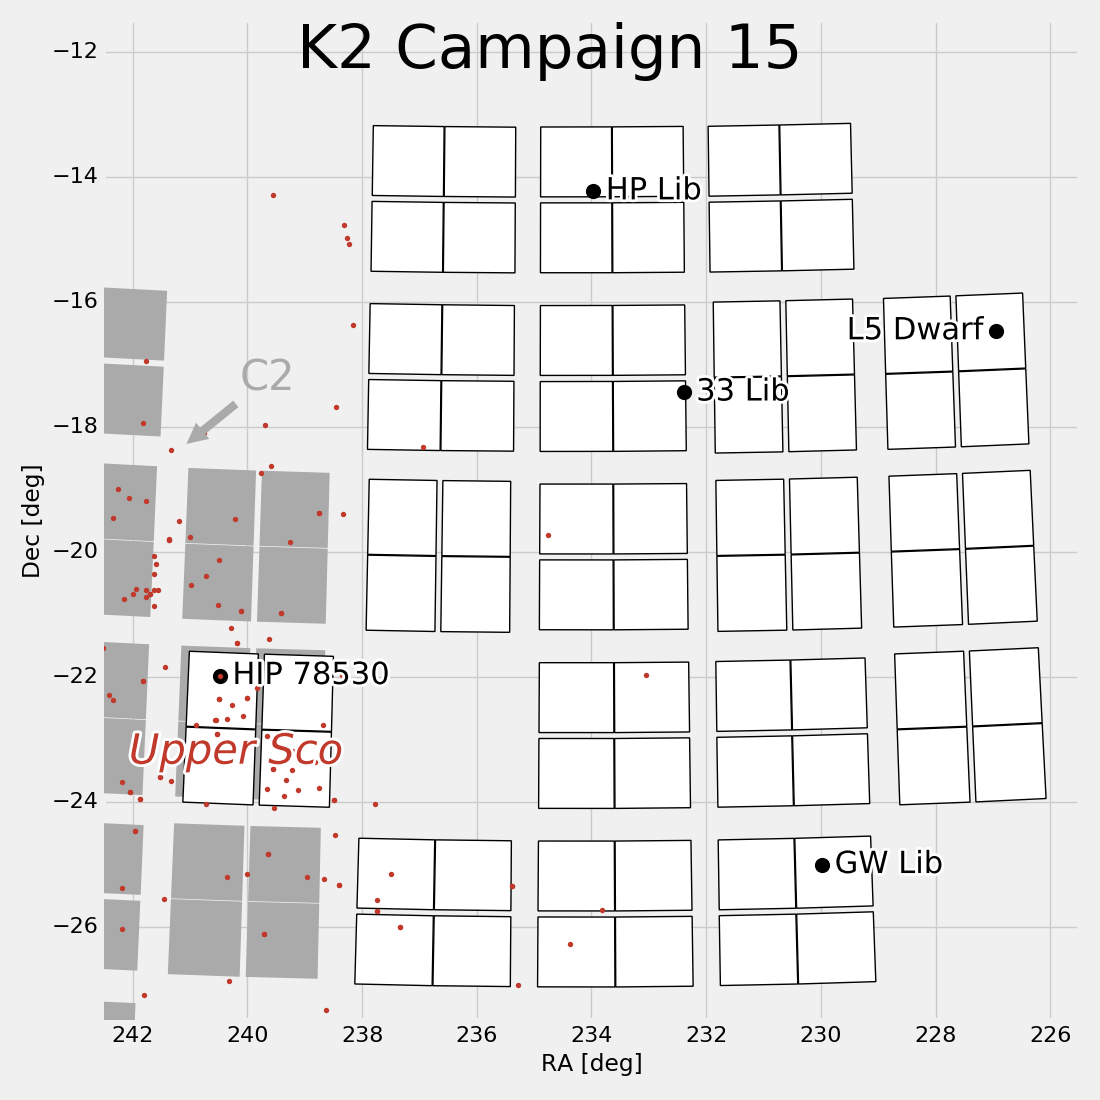
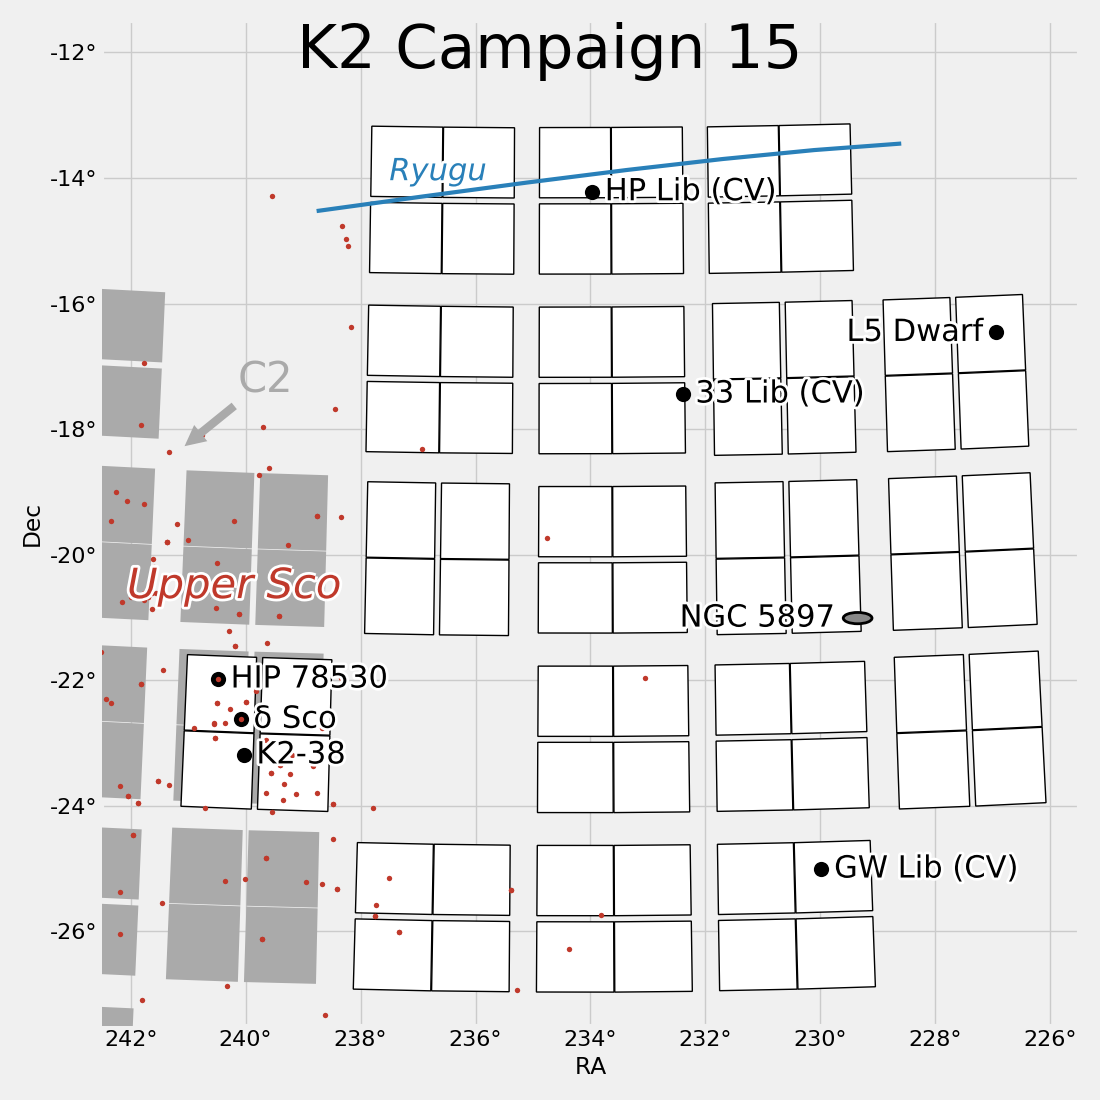
Blog about the C15 target list being online

diff --git a/content/pages/k2-observing/k2-approved-programs.rst b/content/pages/k2-observing/k2-approved-programs.rst
@@ -26,18 +26,18 @@ Campaign 15
 
     <p>
         The Campaign 15 target list includes <b>23,279 standard long cadence</b>
-        and <b>119 standard short cadence</b> targets,
+        and <b>119 standard short cadence</b> targets
         located towards the constellations of Scorpius.
     </p>
 
     <p>
-    The target list includes:
+        Notable targets include:
     <ul>
     <li>
-        The outskirts of the ~11 Myr-old <b>Upper Sco</b> region, the most nearby OB star association located just ~400 light-years away, including:
+        The outskirts of the ~11 Myr-old <b>Upper Sco</b> cluster, the most nearby OB star association (400 light-years away), including:
         <ul>
             <li>
-                <b>Delta Sco</b>: one of the best-studied Be-type stars, known for outbursts in 2000 and 2011. The target is very bright (Kp=2) and hence observed using a custom circular mask (EPIC 200194910).
+                <b>Delta Sco</b>: one of the best-studied Be-type stars, known for outbursts in 2000 and 2011. The target is very bright (Kp=2) and thus observed using a custom circular mask (ID 200194910).
             </li>
             <li>
                 Several other <b>bright B- and A-type stars</b> (Kp=4-6) to be searched for pulsations for the first time.
@@ -48,21 +48,21 @@ Campaign 15
         </ul>
     </li>
     <li>
-        Notable targets observed in short cadence include:
+        Targets being observed in short cadence include:
         <ul>
             <li>
-                <b>GW Lib</b> (EPIC 249251294): a Cataclysmic Variable with a pulsating white dwarf.
+                <b>GW Lib</b>: a cataclysmic variable with a white dwarf that pulsates (ID 249251294).
             </li>
             <li>
-                <b>2MASS 1507-1627</b> (EPIC 249914869): an L5 Brown Dwarf located just 24 light-years from Earth.
+                <b>2MASS 1507-1627</b>: an L5-type Brown Dwarf located just 24 light-years from Earth (ID 249914869).
             </li>
             <li>
-                <b>K2-38</b> (EPIC 204221263): an exoplanet system with two transiting super-Earths discovered in Campaign 2.
+                <b>K2-38</b>: an exoplanet system with two transiting super-Earths discovered in K2 Campaign 2 (ID 204221263).
             </li>
         </ul>
     </li>
     <li>
-        The globular cluster <b>NGC 5897</b> is observed using a 90-by-90 pixel square box.
+        The <b>globular cluster NGC 5897</b> is being observed using a 90-by-90 pixel square box (IDs 200194922–200194957).
     </li>
     <li>
         <b>3466 Galaxies</b> are being monitored for supernovae.
@@ -71,7 +71,7 @@ Campaign 15
         <b>38 Solar System objects</b>, including:
         <ul>
             <li>
-                Asteroid Ryugu: target of the <a href="https://en.wikipedia.org/wiki/Hayabusa_2">Hyabusa 2 sample return mission</a>.
+                Asteroid Ryugu: target of the <a href="https://en.wikipedia.org/wiki/Hayabusa_2">Hyabusa 2</a> sample return mission (IDs 200194922–200194787).
             </li>
             <li>
                 3 Main-belt asteroids: Fantasia, Neujmina, and Stereoskopia.
@@ -80,7 +80,7 @@ Campaign 15
                 4 Comets: 94P/Russell, 130P/McNaught-Hughes, C/2014 F3 (Sheppard-Trujillo), and C/2014 W2 (PANSTARRS).
             </li>
             <li>
-                16 Trojans and 14 Trans-Neptunian Objects.
+                16 Jupiter Trojans and 14 Trans-Neptunian Objects.
             </li>
         </ul>
     </li>

diff --git a/content/news/C15-program.md b/content/news/C15-program.md
@@ -1,0 +1,74 @@
+Title: K2 Campaign 15 science program now available
+Date: 2017-08-02 21:00
+Author: Geert Barentsen
+
+The science program and target lists for K2 Campaign 15
+have now been posted on the
+[approved targets & programs page](k2-approved-programs.html#campaign-15).
+
+Campaign 15 is scheduled to run from <b>August 23 through November 20, 2017</b>,
+and will be observing towards the constellation of <b>Scorpius</b>.
+The target list includes <b>23,279 standard long cadence</b>
+and <b>119 standard short cadence</b> stars.
+
+
+<p>
+    Notable targets include:
+<ul>
+<li>
+    The outskirts of the ~11 Myr-old <b>Upper Sco</b> region, the most nearby OB star association (400 light-years away), including:
+    <ul>
+        <li>
+            <b>Delta Sco</b>: one of the best-studied Be-type stars, known for outbursts in 2000 and 2011. The target is very bright (Kp=2) and thus observed using a custom circular mask (ID 200194910).
+        </li>
+        <li>
+            Several other <b>bright B- and A-type stars</b> (Kp=4-6) to be searched for pulsations for the first time.
+        </li>
+        <li>
+            Hundreds of <b>low-mass pre-main sequence stars</b>.
+        </li>
+    </ul>
+</li>
+<li>
+    Targets being observed in short cadence include:
+    <ul>
+        <li>
+            <b>GW Lib</b>: a cataclysmic variable with a white dwarf that pulsates (ID 249251294).
+        </li>
+        <li>
+            <b>2MASS 1507-1627</b>: an L5-type Brown Dwarf located just 24 light-years from Earth (ID 249914869).
+        </li>
+        <li>
+            <b>K2-38</b>: an exoplanet system with two transiting super-Earths discovered in K2 Campaign 2 (ID 204221263).
+        </li>
+    </ul>
+</li>
+<li>
+    The <b>globular cluster NGC 5897</b> is being observed using a 90-by-90 pixel square box (IDs 200194922–200194957).
+</li>
+<li>
+    <b>3466 Galaxies</b> are being monitored for supernovae.
+</li>
+<li>
+    <b>38 Solar System objects</b>, including:
+    <ul>
+        <li>
+            Asteroid Ryugu: target of the <a href="https://en.wikipedia.org/wiki/Hayabusa_2">Hyabusa 2</a> sample return mission (IDs 200194922–200194787).
+        </li>
+        <li>
+            3 Main-belt asteroids: Fantasia, Neujmina, and Stereoskopia.
+        </li>
+        <li>
+            4 Comets: 94P/Russell, 130P/McNaught-Hughes, C/2014 F3 (Sheppard-Trujillo), and C/2014 W2 (PANSTARRS).
+        </li>
+        <li>
+            16 Jupiter Trojans and 14 Trans-Neptunian Objects.
+        </li>
+    </ul>
+</li>
+</ul>
+</p>
+
+The figure below illustrates the location of the field and its notable targets.
+
+<a href="images/k2/k2-c15-field.png"><img class="img-responsive" style="max-width:600px;" src="images/k2/k2-c15-field.png"></a>
